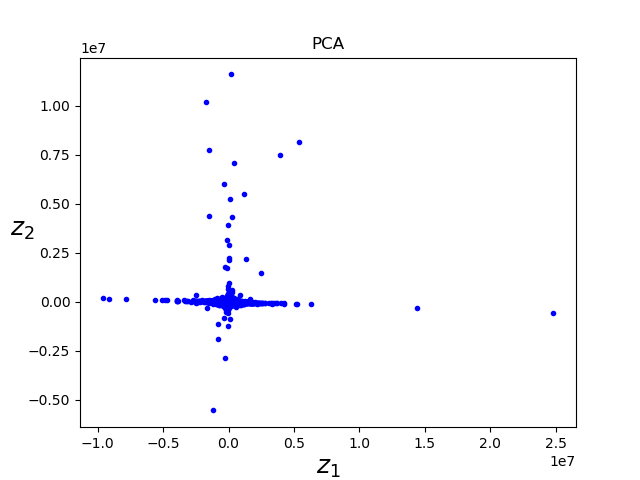
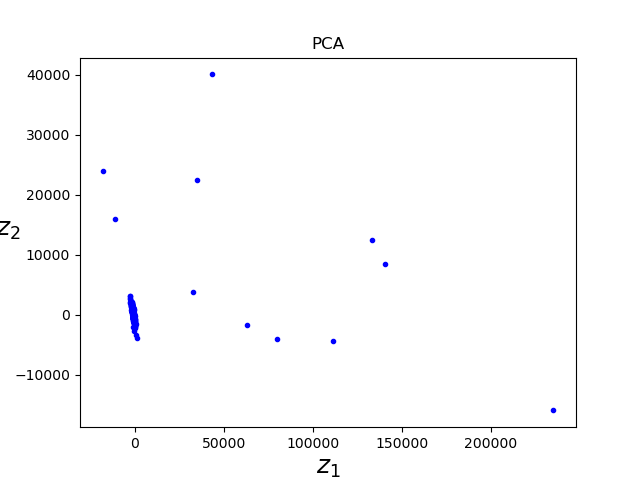
Adaptive learning rate added to the optimizer

diff --git a/proc_sdss_lib.py b/proc_sdss_lib.py
@@ -31,7 +31,7 @@ def spectra(gs, dbPath):
 
     print(f'Getting grid of wavelengths and spectra from {len(gs)} .fits files')
     # http://python.omics.wiki/multiprocessing_map/multiprocessing_partial_function_multiple_arguments
-    f = partial(min_max_interp_i, gs, dbPath)
+    f = partial(flx_rest_frame_i, gs, dbPath)
 
     # close the pool (with) & do partial before
     with mp.Pool() as pool:
@@ -44,6 +44,7 @@ def spectra(gs, dbPath):
     ## wavelenght arrays
     # sizes of each array
 
+    print('Creating master wavelength grid...')
     sizes = np.array([r[0].size for r in res])
     wls = np.empty((sizes.size, np.max(sizes)))
 
@@ -58,34 +59,37 @@ def spectra(gs, dbPath):
     # Discarding spectrum with more than 10% of indefininte
     # valunes in a given wl for al training set
 
+    print('Processing all fluxes')
+
+    # Interpolating
+
     flxs = np.empty(wls.shape)
     for idx, r in enumerate(res):
         flxs[idx] = np.pad(r[1], pad_width=(0,flxs.shape[1]-r[1].size), constant_values=np.nan)
 
-    wkeep = np.where(np.count_nonzero(~np.isfinite(flxs), axis=0) < flxs.shape[0] / 10)
+    flxs_itp = np.empty((flxs.shape[0], wl_grid.size))
+    for idx, flx in enumerate(flxs):
+        flxs_itp[idx, :] = np.interp(wl_grid, wls[idx, :], flx, left=np.nan, right=np.nan)
+
+
+    wkeep = np.where(np.count_nonzero(~np.isfinite(flxs_itp), axis=0) < flxs_itp.shape[0] / 10)
 
     # Removing one dimensional axis since wkeep is a tuple
-    flxs = np.squeeze(flxs[:, wkeep])
-    wls = np.squeeze(wls[:, wkeep])
+    flxs_itp = np.squeeze(flxs_itp[:, wkeep])
 
     # Replacing indefinite values in a spectrum with its nan median
-    for flx in flxs:
+    for flx in flxs_itp:
         flx[np.where(~np.isfinite(flx))] = np.nanmedian(flx)
 
     # Normalizing by the median
-    flxs -= np.median(flxs, axis=1).reshape((flxs.shape[0],1))
+    flxs_itp -= np.median(flxs_itp, axis=1).reshape((flxs_itp.shape[0],1))
 
-    # Interpolating
-    flxs_itp = np.empty((flxs.shape[0], wl_grid.size))
-
-    for idx, flx in enumerate(flxs):
-        flxs_itp[idx, :] = np.interp(wl_grid, wls[idx, :], flx, left=np.nan, right=np.nan)
 
     print('Job finished')
 
     return wl_grid, flxs_itp
 
-def min_max_interp_i(gs, dbPath, i):
+def flx_rest_frame_i(gs, dbPath, i):
     """
     Computes the min and max value in the wavelenght grid for the ith spectrum.
     Computes the interpolation functtion for the ith spectrum.
@@ -107,11 +111,13 @@ def min_max_interp_i(gs, dbPath, i):
     fiberid = obj['fiberid']
     run2d = obj['run2d']
     z = obj['z']
-    wl_rg, flx = min_max_interp(plate, mjd, fiberid, run2d, z, dbPath)
+
+    print(f'Processing spectrun N° {i}: Obtaining fluxes and wl in rest frame...', end='\r')
+    wl_rg, flx = flx_rest_frame(plate, mjd, fiberid, run2d, z, dbPath)
 
     return wl_rg, flx
 
-def min_max_interp(plate, mjd, fiberid, run2d, z, dbPath):
+def flx_rest_frame(plate, mjd, fiberid, run2d, z, dbPath):
     """
     Computes the min and max value in the wavelenght grid for the spectrum.
     Computes the interpolation functtion for the spectrum.

diff --git a/AEs.py b/AEs.py
@@ -20,25 +20,28 @@ ti = time()
 
 ## Loading the data
 
-fname = sys.argv[1]
-dir = f'{os.getcwd()}/db/'
-exist = os.path.exists(f'{dir}{fname}')
-if exist:
-    flxs = np.load(f'{dir}{fname}')
+proc_dbPath = f'/home/edgar/zorro/SDSSdata/data_proc'
+fname =  f'flxs_1000.npy'
+dest = f'{proc_dbPath}/{fname}'
+if os.path.exists(dest):
+    flxs = np.load(dest, mmap_mode='r')
 else:
-    print(f'There is no {fname} in {dir} directory!')
+    print(f'There is no {fname} in {proc_dbPath} directory!')
 
 ## Performing PCA
+print('Performing PCA...')
 
-pca = PCA(n_components=2) #0.99999951 (100)
+#pca = PCA(n_components=2) #0.99999951 (100)
+#
+#nnans = np.count_nonzero(np.isnan(flxs))
+#print(f'Number of nans is {nnans}')
+#tr_flxs= pca.fit_transform(flxs)
 
-tr_flxs= pca.fit_transform(flxs)
-
-print(f'N° of componets: {pca.n_components_}, {tr_flxs.shape}')
+#print(f'N° of componets: {pca.n_components_}, {tr_flxs.shape}')
 
 ## Inverse transform
 
-inv_tr= pca.inverse_transform(tr_flxs)
+#inv_tr= pca.inverse_transform(tr_flxs)
 
 # ## Checking the percentages of explained variance
 #
@@ -46,7 +49,7 @@ inv_tr= pca.inverse_transform(tr_flxs)
 #
 # expl_var = [(i/tot_var)*100 for i in sorted(pca.explained_variance_, reverse=True)]
 
-plot_2D(tr_flxs, 'PCA')
+#plot_2D(tr_flxs, 'PCA')
 
 # n = 10
 # for i in range(n):
@@ -56,19 +59,24 @@ plot_2D(tr_flxs, 'PCA')
 
 ## Ploting a spetrum
 
-plt_spec_pca(flxs[0],inv_tr[0],pca.n_components_)
+#plt_spec_pca(flxs[0],inv_tr[0],pca.n_components_)
 
 
 ## Creating the AE
 # I do create it in two parts because later on I'll need to acces the latent
 # space. Therefore it is necessary to add the input and output shape
 
-
+print('Training Auto Encoder...')
 encoder = keras.models.Sequential([keras.layers.Dense(2, input_shape=(flxs.shape[1],))])
 decoder = keras.models.Sequential([keras.layers.Dense(flxs.shape[1])])
 autoencoder = keras.models.Sequential([encoder, decoder])
 
-autoencoder.compile(loss=keras.losses.MeanSquaredError(), optimizer=keras.optimizers.Adam(lr=1e-4))
+lr_schedule = keras.optimizers.schedules.ExponentialDecay(
+    initial_learning_rate=1e-4,
+    decay_steps=10000,
+    decay_rate=0.9)
+#optimizer = keras.optimizers.SGD(learning_rate=lr_schedule)
+autoencoder.compile(loss=keras.losses.MeanSquaredError(), optimizer=keras.optimizers.Adam(learning_rate=lr_schedule))
 
 ## Normalizing the flux: removing the mean value and normalizing by the standard
 # deviation. This is done because pca.fit_transform does the same on the data.
@@ -79,7 +87,7 @@ flxs = sc.fit_transform(flxs)
 
 ## Fitting
 
-history = autoencoder.fit(flxs, flxs, epochs=20)
+history = autoencoder.fit(flxs, flxs, epochs=100)
 latent = encoder.predict(flxs)
 
 print(latent.shape)

diff --git a/data_proc_sdss.py b/data_proc_sdss.py
@@ -8,8 +8,9 @@ import pandas as pd
 import matplotlib
 import matplotlib.pyplot as plt
 
-from proc_sdss import spectra
+from proc_sdss_lib import spectra
 
+ti = time()
 # Data processing
 
 # For some reason when I check for SPEC_CLN with fitsheader, it is not there.
@@ -27,19 +28,36 @@ from proc_sdss import spectra
 
 ## Loading DataFrame with the data of the galaxies
 
-n_obs = 10
 dbPath = f'/home/edgar/zorro/SDSSdata'
-fname = f'gs_{n_obs}.csv'
-dest = f'{dbPath}/{fname}'
-gs = pd.read_csv(dest)
+gs = pd.read_csv(f'{dbPath}/gs_SN_median_sorted.csv')
 
-m_wl, flxs = spectra(gs, dbPath)
 
-np.save(f'{dbPath}/data_proc/flxs_{flxs.shape[0]}.npy', flxs)
-np.save(f'{dbPath}/data_proc/wl_grid_{m_wl.size}.npy', m_wl)
+n_obs = 50_000 # 3188712
+
+if not os.path.exists(f'{dbPath}/gs_{n_obs}.csv'):
+    print(f'Creating file: gs_{n_obs}.csv')
+    fname = f'gs_{n_obs}.csv'
+    dest = f'{dbPath}/{fname}'
+    gs_n = gs[:n_obs]
+    gs_n.index = np.arange(n_obs)
+    gs_n.to_csv(f'{dbPath}/gs_{n_obs}.csv')
+    print('Starting data curation process...')
+    gs_n = pd.read_csv(f'{dbPath}/gs_{n_obs}.csv')
+    m_wl, flxs = spectra(gs_n, dbPath)
+    np.save(f'{dbPath}/data_proc/flxs_{flxs.shape[0]}.npy', flxs)
+    np.save(f'{dbPath}/data_proc/wl_grid_{m_wl.size}.npy', m_wl)
+else:
+    print('Starting data curation process...')
+    gs_n = pd.read_csv(f'{dbPath}/gs_{n_obs}.csv')
+    m_wl, flxs = spectra(gs_n, dbPath)
+    np.save(f'{dbPath}/data_proc/flxs_{flxs.shape[0]}.npy', flxs)
+    np.save(f'{dbPath}/data_proc/wl_grid_{m_wl.size}.npy', m_wl)
 
 #for flx in flxs:
 #   plt.figure()
 #   plt.plot(m_wl, flx)
 #   plt.show()
 #   plt.close()
+tf = time()
+
+print(f'Running time: {tf-ti:.2f} [seg]')

diff --git a/get_sdss_data.py b/get_sdss_data.py
@@ -146,8 +146,9 @@ gs.index = np.arange(n1_rows)
 
 # Choose the top n_obs median SNR objects
 gs.sort_values(by=['snMedian'], ascending=False, inplace=True)
+gs.to_csv(f'{dbPath}/gs_SN_median_sorted.csv')
 
-n_obs = 1_000_000 # 3188712
+n_obs = 1_000 # 3188712
 if not os.path.exists(f'{dbPath}/gs_{n_obs}.csv'):
     print(f'Creating file: gs_{n_obs}.csv')
     gs = gs[:n_obs]
@@ -162,6 +163,18 @@ if not os.path.exists(f'{dbPath}/gs_{n_obs}.csv'):
                 + gs['mjd'].astype(str) \
                 + '&fiber=' + gs['fiberid'].map('{:04}'.format)
     gs.to_csv(f'{dbPath}/gs_{n_obs}.csv')
+    tf = time()
+    print(f'Building links for download took: {tf-ti:.2f} [s]')
+
+    # Downloading the data...
+
+    ti = time()
+
+    getFitsFiles(gs,dbPath)
+
+    tf = time()
+
+    print(f'Data download took: {tf-ti:.2f} [s]')
 
 # Plotting the z and SNR distribution
 
@@ -184,16 +197,3 @@ if not os.path.exists(f'{dbPath}/gs_{n_obs}.csv'):
 #
 # plt.show()
 # plt.close
-
-tf = time()
-print(f'Building links for download took: {tf-ti:.2f} [s]')
-
-# Downloading the data...
-
-ti = time()
-
-getFitsFiles(gs,dbPath)
-
-tf = time()
-
-print(f'Data download took: {tf-ti:.2f} [s]')

diff --git a/AEs_lib.py b/AEs_lib.py
@@ -1,0 +1,32 @@
+import numpy as np
+import matplotlib
+import matplotlib.pyplot as plt
+
+
+def plt_spec_pca(flx,pca_flx,componets):
+    '''Comparative plot to see how efficient is the PCA compression'''
+    plt.figure(figsize=(8,4));
+
+    # Original Image
+    plt.subplot(1, 2, 1);
+    plt.plot(flx)
+    plt.xlabel(f'{flx.size} components', fontsize = 14)
+    plt.title('Original Spectra', fontsize = 20)
+
+    # principal components
+    plt.subplot(1, 2, 2);
+    plt.plot(pca_flx)
+    plt.xlabel(f'{componets} componets', fontsize = 14)
+    plt.title('Reconstructed spectra', fontsize = 20)
+    plt.show()
+    plt.close()
+
+def plot_2D(data, title):
+    fig = plt.figure()
+    plt.title(title)
+    plt.plot(data[:,0], data[:, 1], "b.")
+    plt.xlabel("$z_1$", fontsize=18)
+    plt.ylabel("$z_2$", fontsize=18, rotation=0)
+    plt.savefig(f'{title}.png')
+    plt.show()
+    plt.close()
